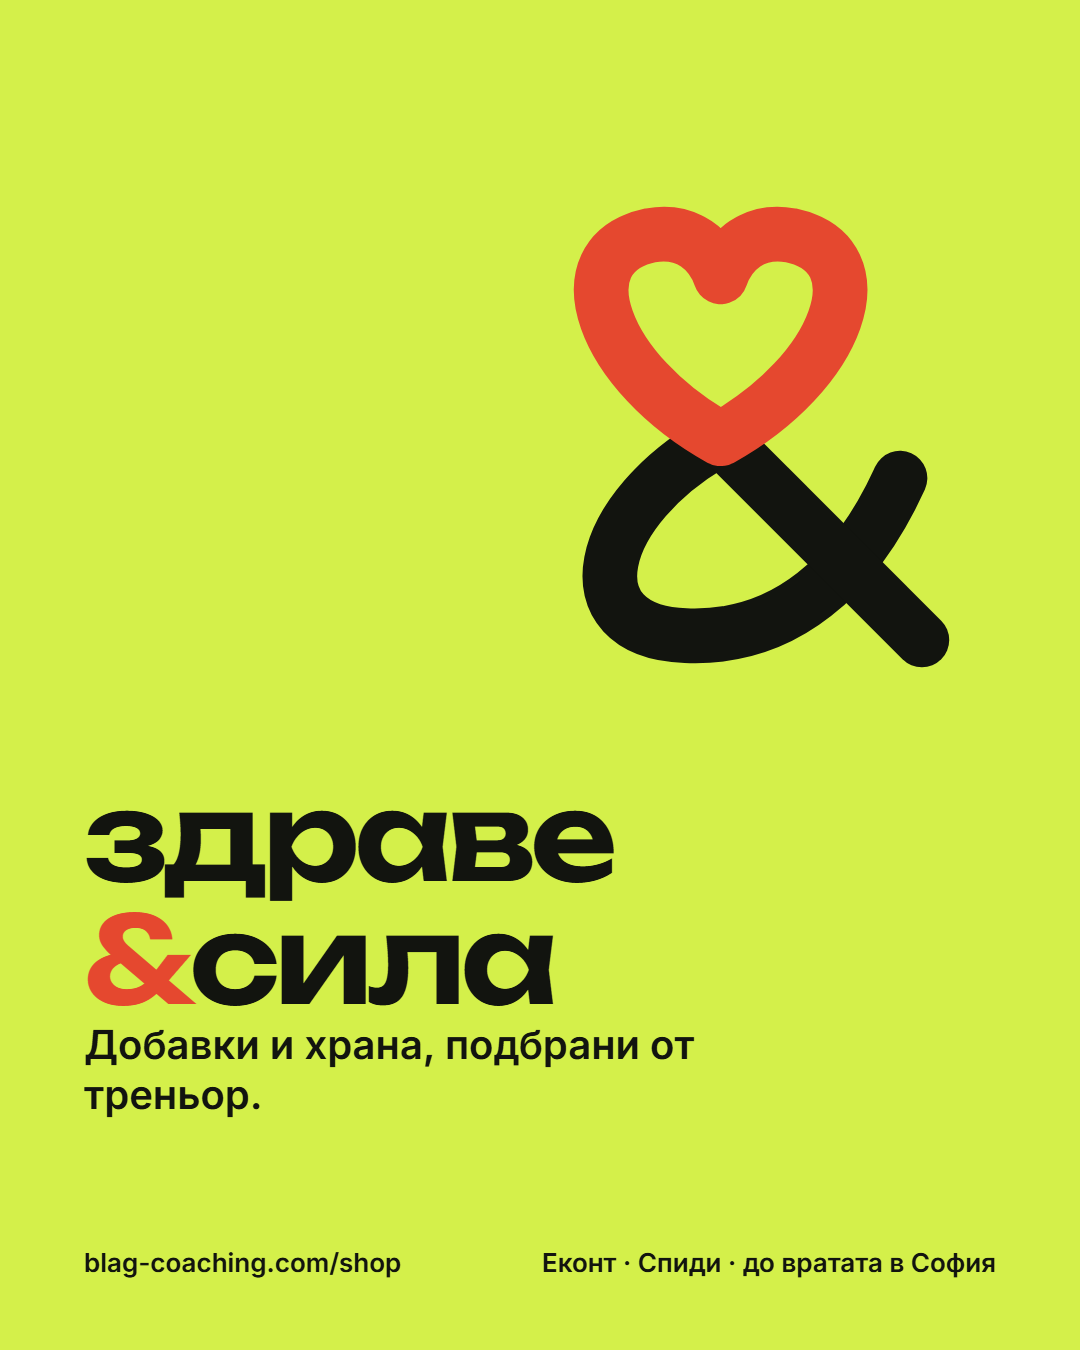
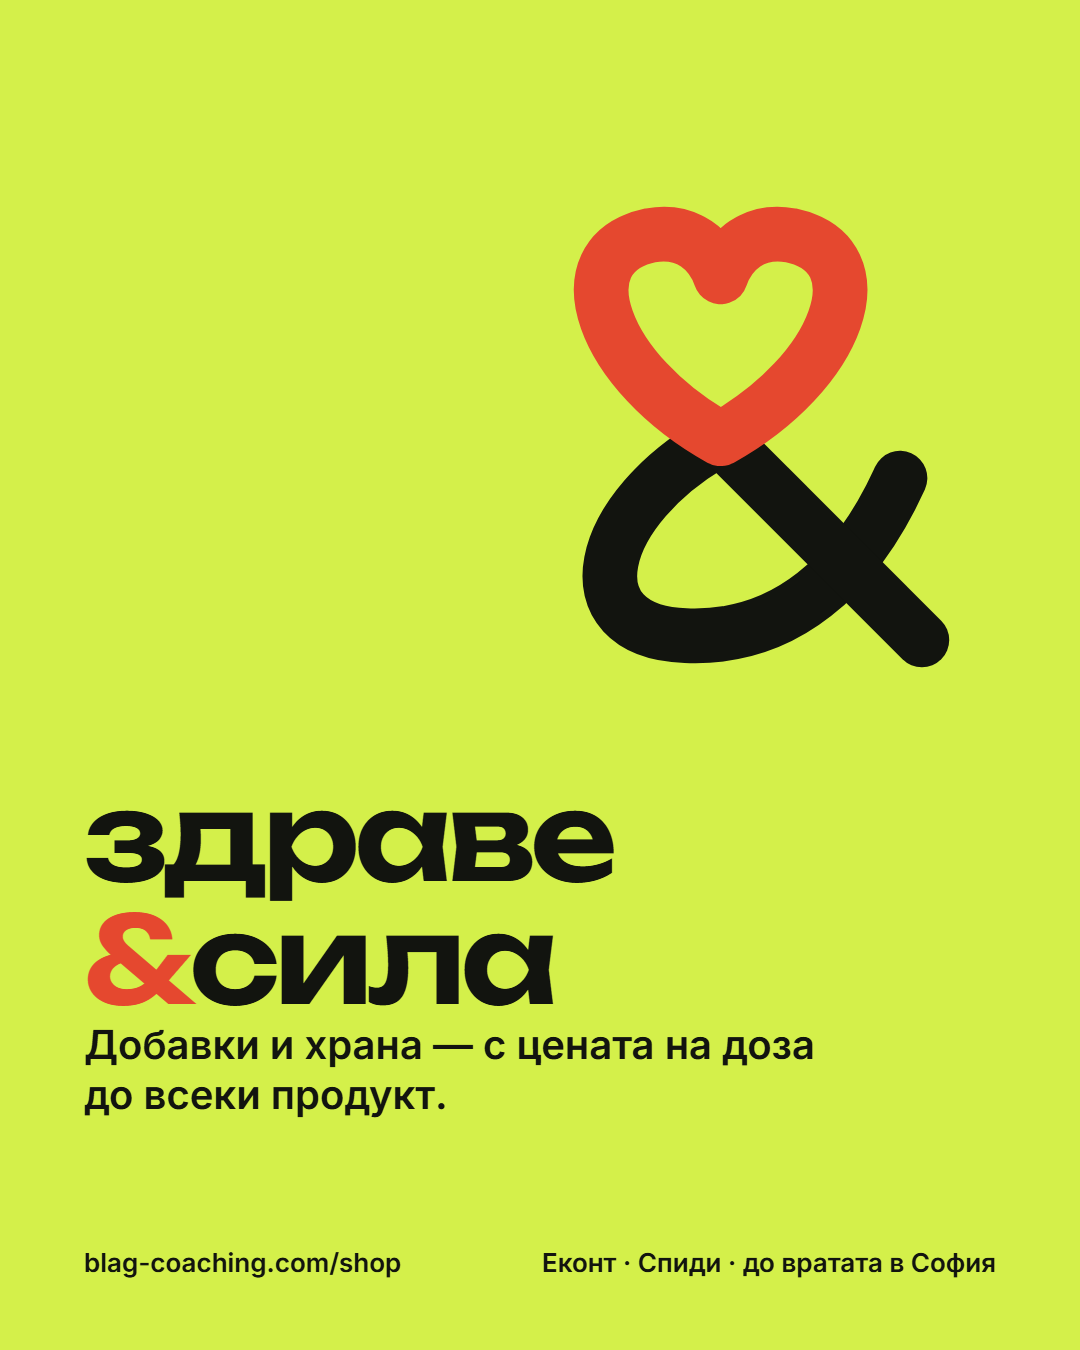
Магазин: без „подбрани от треньор“
По думите на Николай. Заглавието е „Добавки & храна.“; махнато и от сплаша,
заглавието на страницата, описанията за търсачки и споделяне, поста p1 и
картинката за споделяне (там знакът е вместо „&“, както в магазина).
Остава подписът долу: „Подбрано от Николай Благьов — треньор…“.

Claude-Session: https://claude.ai/code/session_01FbRsYRU5NQYxJEMbBM7TMU

Changed region(s): [[0.3972, 0.7467, 0.7639, 0.8089], [0.0611, 0.7778, 0.3972, 0.84]]

diff --git a/shop/index.html b/shop/index.html
@@ -5,15 +5,15 @@
     <meta name="viewport" content="width=device-width, initial-scale=1.0, viewport-fit=cover" />
     <!-- Прототип в тестов режим — не за търсачките, докато не тръгне на живо. -->
     <meta name="robots" content="noindex, nofollow" />
-    <title>здраве&amp;сила — добавки и храна, подбрани от треньор</title>
-    <meta name="description" content="Протеин, креатин, витамини, протеинови снаксове и храна за готвене с макросите на 100 г — подбрани от треньор. Доставка с Еконт, Спиди или до вратата в София." />
+    <title>здраве&amp;сила — добавки и храна</title>
+    <meta name="description" content="Протеин, креатин, витамини, протеинови снаксове и храна за готвене с макросите на 100 г. Доставка с Еконт, Спиди или до вратата в София." />
     <meta name="theme-color" content="#EEEAE1" media="(prefers-color-scheme: light)" />
     <meta name="theme-color" content="#11130E" media="(prefers-color-scheme: dark)" />
     <link rel="icon" type="image/svg+xml" href="/shop/brand/icon.svg" />
     <link rel="icon" type="image/png" sizes="192x192" href="/shop/brand/icon-192.png" />
     <link rel="apple-touch-icon" href="/shop/brand/icon-180.png" />
     <meta property="og:title" content="здраве&amp;сила" />
-    <meta property="og:description" content="Добавки и храна, подбрани от треньор. Цената на доза и макросите — до всеки продукт." />
+    <meta property="og:description" content="Добавки и храна. Цената на доза и макросите — до всеки продукт." />
     <meta property="og:image" content="https://blag-coaching.com/shop/brand/og.png" />
     <meta property="og:type" content="website" />
     <link rel="preconnect" href="https://fonts.googleapis.com" />

diff --git a/shop/brand/social/posts.html b/shop/brand/social/posts.html
@@ -46,7 +46,7 @@
 <section id="p1" class="board post lime">
   <svg class="mark" viewBox="0 0 256 256" width="560" height="560" style="position:absolute;right:40px;top:150px"><use href="#amp" stroke-width="25"/></svg>
   <p class="disp" style="font-size:120px;position:absolute;left:84px;bottom:330px">здраве<br><span style="color:var(--heart)">&amp;</span>сила</p>
-  <p style="position:absolute;left:84px;bottom:230px;font-size:40px;font-weight:600;max-width:760px;line-height:1.25">Добавки и храна, подбрани от треньор.</p>
+  <p style="position:absolute;left:84px;bottom:230px;font-size:40px;font-weight:600;max-width:760px;line-height:1.25">Добавки и храна — с цената на доза до всеки продукт.</p>
   <div class="foot" style="color:var(--ink)"><span>blag-coaching.com/shop</span><span>Еконт · Спиди · до вратата в София</span></div>
 </section>
 
@@ -96,7 +96,7 @@
     <div style="position:absolute;inset:30px;border-radius:50%;background:var(--lime)"></div>
   </div>
   <p class="word" style="font-size:44px;position:relative">здраве<svg class="mark" viewBox="0 0 256 256" width="54" height="54"><use href="#amp" stroke-width="25"/></svg>сила</p>
-  <h1 class="disp" style="font-size:64px;margin-top:70px;max-width:620px;position:relative">Добавки и храна, <span class="hl">подбрани</span> от треньор.</h1>
+  <h1 class="disp" style="font-size:64px;margin-top:70px;max-width:620px;position:relative">Добавки <svg class="mark" viewBox="0 0 256 256" width="96" height="96" style="vertical-align:-0.32em;margin:0 -6px"><use href="#amp" stroke-width="25"/></svg> храна.</h1>
   <p style="position:absolute;left:64px;bottom:56px;font-size:24px;font-weight:600;color:var(--ink2)">Цената на доза и макросите — до всеки продукт.</p>
 </section>
 

diff --git a/src/shop/Catalog.jsx b/src/shop/Catalog.jsx
@@ -119,7 +119,7 @@ export default function Catalog({ products, query, onAdd, delivery }) {
     <>
       <section className={styles.hero}>
         <HeroArt products={products} />
-        <h1 className={styles.display}>Добавки <Mark size={0} className={styles.amp} /><span className={styles.srOnly}>и</span> храна, подбрани от&nbsp;треньор.</h1>
+        <h1 className={styles.display}>Добавки <Mark size={0} className={styles.amp} /><span className={styles.srOnly}>и</span> храна.</h1>
         <p className={styles.ship}>{cutoff ? 'До 15:00 тръгва днес' : 'Тръгва в работен ден'}{courier ? ` · доставка 0 € над ${euro(courier.free_from_cents).replace(',00', '')}` : ''}</p>
       </section>
 

diff --git a/src/shop/Brand.jsx b/src/shop/Brand.jsx
@@ -65,7 +65,7 @@ export function Splash() {
       <div className={styles.splashInner}>
         <Mark size={132} className={styles.draw} />
         <p className={styles.splashName}>здраве<span>&amp;</span>сила</p>
-        <p className={styles.splashLine}>добавки, подбрани от треньор</p>
+        <p className={styles.splashLine}>добавки и храна</p>
       </div>
     </div>
   )
